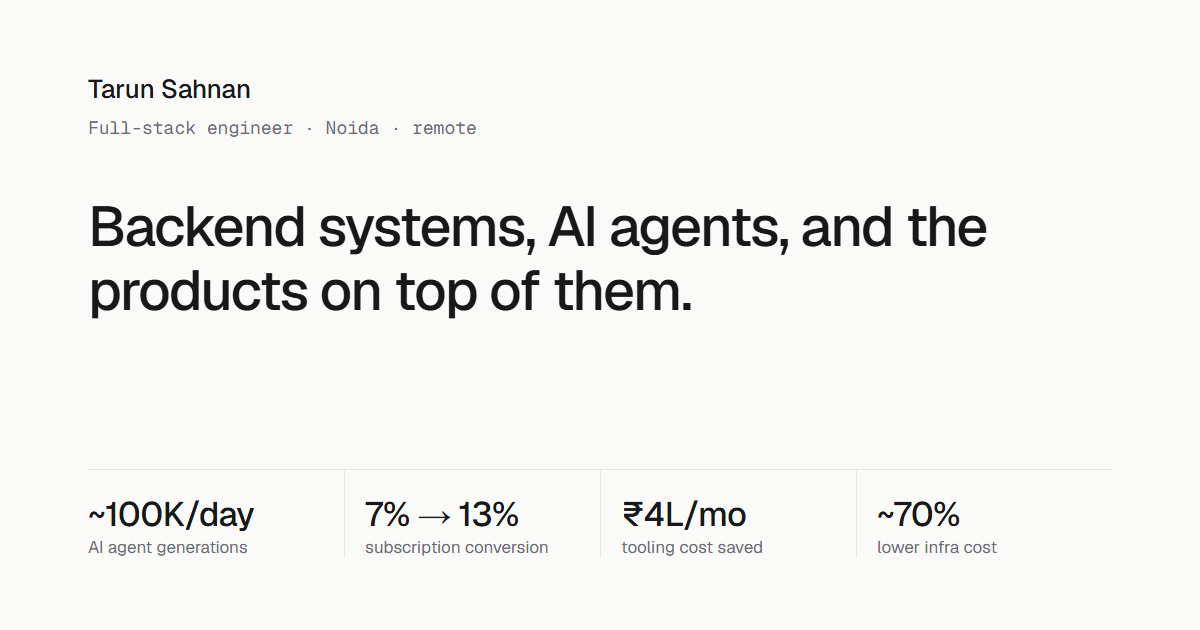
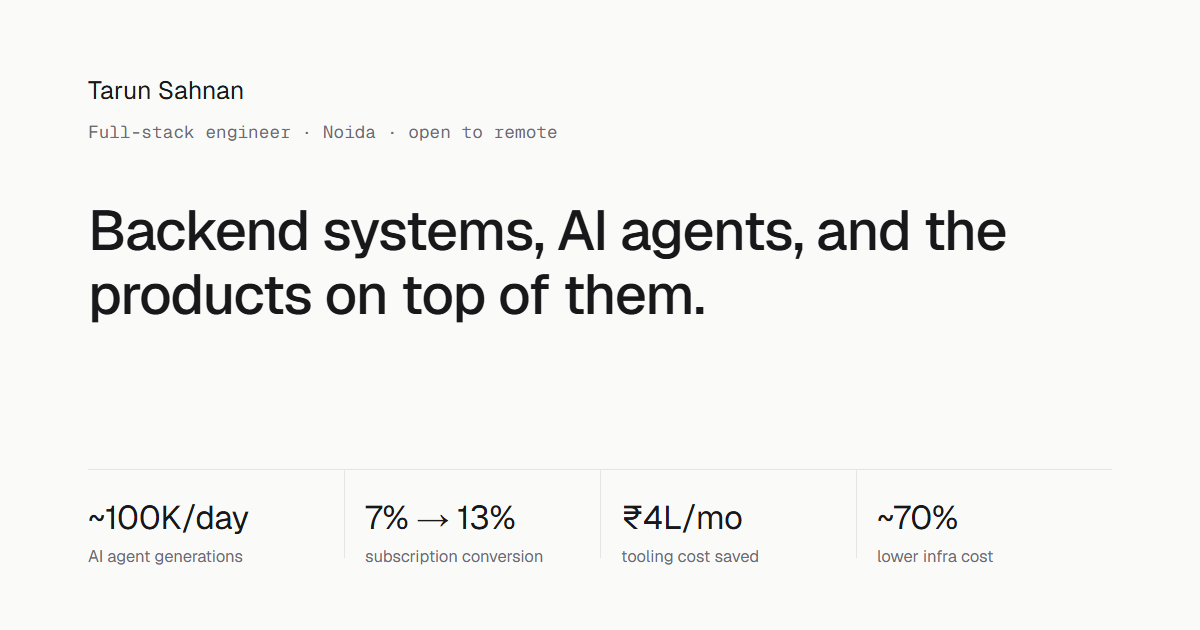
Say "based in Noida, open to remote" instead of "works remote"
His current role is not remote, so the hero, meta description, agent
answer and social card no longer say he works remotely.

diff --git a/index.html b/index.html
@@ -4,7 +4,7 @@
   <meta charset="utf-8">
   <meta name="viewport" content="width=device-width, initial-scale=1">
   <title>Tarun Sahnan — Full-stack Product Engineer</title>
-  <meta name="description" content="Tarun Sahnan, full-stack engineer in Noida, working remote. Backend systems, AI agents and the web and TV apps on top of them. Sole developer of a per-user AI agent serving ~1 lakh generations a day.">
+  <meta name="description" content="Tarun Sahnan, full-stack engineer based in Noida, open to remote roles. Backend systems, AI agents and the web and TV apps on top of them. Sole developer of a per-user AI agent serving ~1 lakh generations a day.">
   <meta name="author" content="Tarun Sahnan">
   <meta name="color-scheme" content="light dark">
   <meta name="theme-color" content="#fafaf9" media="(prefers-color-scheme: light)">
@@ -38,8 +38,8 @@
       setTimeout(function () { if (!document.getElementById('app')) d.setAttribute('data-view', 'classic'); }, 2500);
     })();
   </script>
-  <link rel="stylesheet" href="style.css?v=40">
-  <script src="app.js?v=40" defer></script>
+  <link rel="stylesheet" href="style.css?v=41">
+  <script src="app.js?v=41" defer></script>
   <script type="application/ld+json">
   {"@context":"https://schema.org","@type":"Person","name":"Tarun Sahnan","jobTitle":"Full-stack Product Engineer","address":{"@type":"PostalAddress","addressLocality":"Noida","addressCountry":"IN"},"email":"mailto:tarunsahnan98@gmail.com","url":"https://tarunsahnan.github.io/","sameAs":["https://www.linkedin.com/in/tarun-sahnan","https://github.com/tarunsahnan"],"alumniOf":"Lovely Professional University"}
   </script>
@@ -69,8 +69,8 @@
     <section class="col intro" aria-labelledby="intro-title">
       <p class="status"><span class="dot" aria-hidden="true"></span>Open to remote roles</p>
       <h1 id="intro-title">Backend systems and AI agents, and the web and TV apps that sit on top of them.</h1>
-      <p class="level">Full-stack engineer · ~3.5 yrs · backend + AI in production · remote from Noida</p>
-      <p class="lede">I'm Tarun. At <a href="#stage">STAGE</a>, an OTT platform for Haryanvi, Rajasthani and Bhojpuri shows, I'm the only developer on a per-user AI agent, and I've built the campaign platform, the ad pipelines, the website and the TV apps. Noida, working remote.</p>
+      <p class="level">Full-stack engineer · ~3.5 yrs · backend + AI in production · Noida, open to remote</p>
+      <p class="lede">I'm Tarun. At <a href="#stage">STAGE</a>, an OTT platform for Haryanvi, Rajasthani and Bhojpuri shows, I'm the only developer on a per-user AI agent, and I've built the campaign platform, the ad pipelines, the website and the TV apps. Based in Noida, open to remote roles.</p>
       <ul class="links-inline">
         <li><a href="mailto:tarunsahnan98@gmail.com">Email</a></li>
         <li><a href="https://www.linkedin.com/in/tarun-sahnan" rel="noopener" target="_blank">LinkedIn</a></li>

diff --git a/app.js b/app.js
@@ -127,7 +127,7 @@
     person: '<svg viewBox="0 0 24 24" width="14" height="14" aria-hidden="true"><circle cx="12" cy="8" r="4" fill="none" stroke="currentColor" stroke-width="1.8"/><path d="M4 21c1.5-4 4.5-6 8-6s6.5 2 8 6" fill="none" stroke="currentColor" stroke-width="1.8" stroke-linecap="round"/></svg>',
     fit: '<svg viewBox="0 0 24 24" width="14" height="14" aria-hidden="true"><path d="M7 3h7l5 5v13H7z M14 3v5h5 M10 14l2 2 4-4" fill="none" stroke="currentColor" stroke-width="1.8" stroke-linejoin="round" stroke-linecap="round"/></svg>'
   };
-  const LEVEL = 'Full-stack engineer · ~3.5 yrs · backend + AI in production · remote from Noida';
+  const LEVEL = 'Full-stack engineer · ~3.5 yrs · backend + AI in production · Noida, open to remote';
   const TAGLINE = 'Backend systems and AI agents, and the web and TV apps that sit on top of them.';
 
   const A = {
@@ -145,7 +145,7 @@
       q: 'Who is Tarun Sahnan?', side: 'Who is Tarun?', chip: 'Who is Tarun?',
       tools: [['read_resume()', '3 roles · 1 degree · 2022 – now'], ['query_projects({ sort: "impact" })', 'ranked by measured results'], ['open_case_study("1U1A")', 'diagram attached']],
       blocks: [
-        { p: '<b>Tarun Sahnan</b> is a full-stack engineer (~3.5 years) whose strongest work is backend and AI systems. Since July 2024 he has been at <b>STAGE</b>, an OTT platform for Haryanvi, Rajasthani and Bhojpuri shows. He works remote from Noida.' },
+        { p: '<b>Tarun Sahnan</b> is a full-stack engineer (~3.5 years) whose strongest work is backend and AI systems. Since July 2024 he has been at <b>STAGE</b>, an OTT platform for Haryanvi, Rajasthani and Bhojpuri shows. He is based in Noida and open to remote roles.' },
         { metrics: [['~100K/day', 'AI agent generations (~1 lakh)'], ['7% → 13%', 'subscription conversion'], ['₹4L/mo', 'tooling saved (~US$4.7K)'], ['~70%', 'lower infra cost']] },
         { p: 'Highlights:' },
         { ul: [
